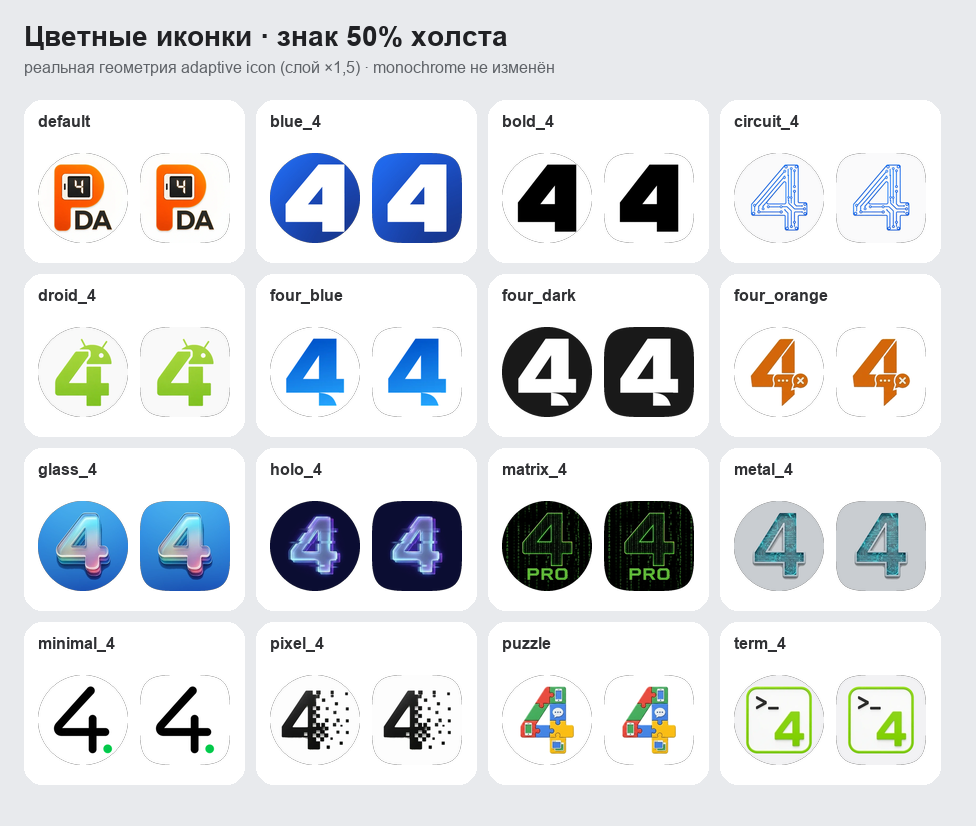
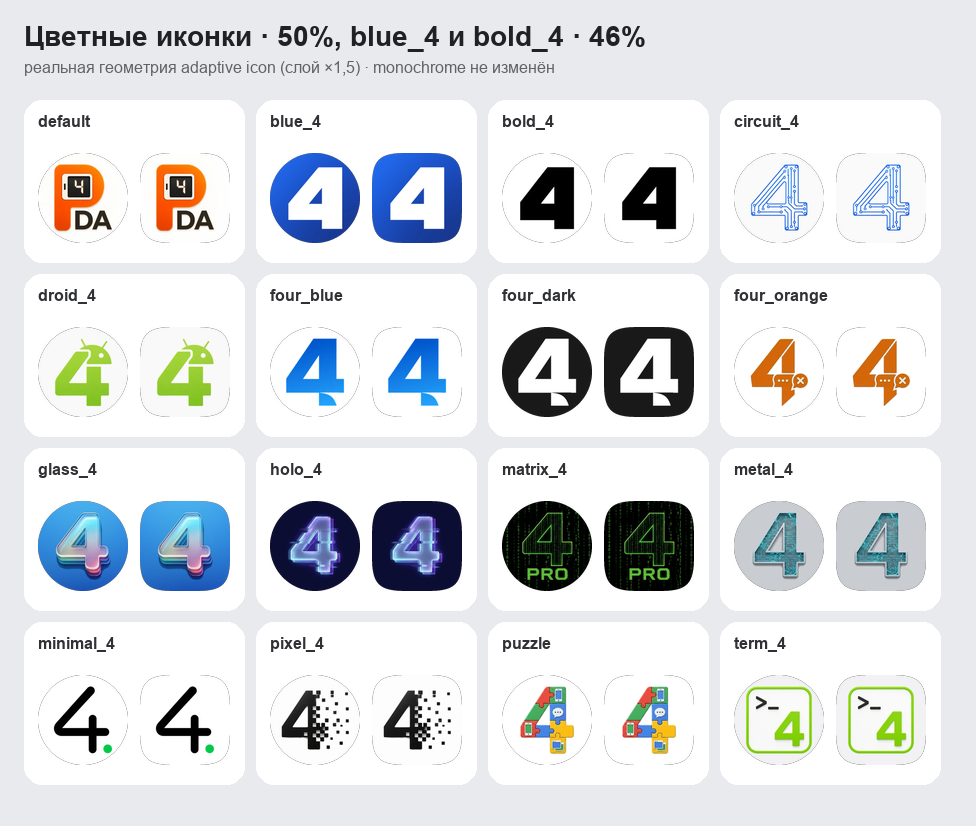
fix(appicon): уменьшить и центрировать две четвёрки

diff --git a/design/app-icon/resize_colored_foregrounds.py b/design/app-icon/resize_colored_foregrounds.py
@@ -3,6 +3,7 @@
 
 from __future__ import annotations
 
+import argparse
 import io
 import re
 from pathlib import Path
@@ -15,15 +16,23 @@ ROOT = Path(__file__).resolve().parents[2]
 RES = ROOT / "app/src/main/res"
 OUT = Path(__file__).resolve().parent / "all-icons-50-review.png"
 TARGET_SCALE = 0.50
+PER_ICON_SCALE = {
+    "blue_4": 0.46,
+    "bold_4": 0.46,
+}
 
 FONT_BOLD = "/System/Library/Fonts/Supplemental/Arial Bold.ttf"
 FONT_REGULAR = "/System/Library/Fonts/Supplemental/Arial.ttf"
 
 
-def resize_foreground(path: Path) -> None:
-    image = Image.open(path).convert("RGBA")
-    width, height = image.size
-    pixels = np.asarray(image)
+def icon_id(path: Path) -> str:
+    if path.name == "ic_launcher_foreground_art.webp":
+        return "default"
+    return path.name.removeprefix("ic_launcher_").removesuffix("_foreground_art.webp")
+
+
+def visible_bounds(image: Image.Image) -> tuple[int, int, int, int]:
+    pixels = np.asarray(image.convert("RGBA"))
     alpha = pixels[:, :, 3]
     if alpha.min() < 255:
         visible = alpha > 8
@@ -35,19 +44,46 @@ def resize_foreground(path: Path) -> None:
         visible = np.max(np.abs(pixels[:, :, :3].astype(np.int16) - background), axis=2) > 24
     ys, xs = np.where(visible)
     if not len(xs):
-        raise ValueError(f"{path}: foreground is empty")
-    visible_edge = max(int(xs.max() - xs.min() + 1), int(ys.max() - ys.min() + 1))
-    ratio = TARGET_SCALE * max(width, height) / visible_edge
+        raise ValueError("foreground is empty")
+    return int(xs.min()), int(ys.min()), int(xs.max()) + 1, int(ys.max()) + 1
+
+
+def centre_foreground(image: Image.Image, fill: tuple[int, ...]) -> Image.Image:
+    left, top, right, bottom = visible_bounds(image)
+    dx = round((image.width - left - right) / 2)
+    dy = round((image.height - top - bottom) / 2)
+    if not dx and not dy:
+        return image
+    result = Image.new("RGBA", image.size, fill)
+    result.alpha_composite(image.convert("RGBA"), (dx, dy))
+    return result
+
+
+def resize_foreground(path: Path) -> None:
+    image = Image.open(path).convert("RGBA")
+    width, height = image.size
+    alpha = np.asarray(image.getchannel("A"))
+    fill = image.getpixel((2, 2)) if alpha.min() == 255 else (0, 0, 0, 0)
+    image = centre_foreground(image, fill)
+    left, top, right, bottom = visible_bounds(image)
+    visible_edge = max(right - left, bottom - top)
+    target = PER_ICON_SCALE.get(icon_id(path), TARGET_SCALE)
+    ratio = target * max(width, height) / visible_edge
     scaled = image.resize(
         (round(width * ratio), round(height * ratio)),
         Image.Resampling.LANCZOS,
     )
-    fill = image.getpixel((2, 2)) if alpha.min() == 255 else (0, 0, 0, 0)
     result = Image.new("RGBA", image.size, fill)
     result.alpha_composite(
         scaled,
         ((width - scaled.width) // 2, (height - scaled.height) // 2),
     )
+    result = centre_foreground(result, fill)
+    left, top, right, bottom = visible_bounds(result)
+    margin_dx = abs(left - (width - right))
+    margin_dy = abs(top - (height - bottom))
+    if margin_dx > 1 or margin_dy > 1:
+        raise ValueError(f"{path}: asymmetric margins ΔX={margin_dx}, ΔY={margin_dy}")
 
     candidates: list[bytes] = []
     for options in ({"lossless": True, "method": 6}, {"quality": 95, "method": 6}):
@@ -55,7 +91,10 @@ def resize_foreground(path: Path) -> None:
         result.save(buffer, "WEBP", **options)
         candidates.append(buffer.getvalue())
     path.write_bytes(min(candidates, key=len))
-    print(f"  ✓ {path.relative_to(ROOT)}: {visible_edge / width:.1%} → {TARGET_SCALE:.0%}")
+    print(
+        f"  ✓ {path.relative_to(ROOT)}: {visible_edge / width:.1%} → {target:.0%}, "
+        f"поля ΔX={margin_dx}px ΔY={margin_dy}px"
+    )
 
 
 def adaptive_viewport(layer: Image.Image) -> Image.Image:
@@ -105,11 +144,7 @@ def background(icon_id: str, size: int, palette: dict[str, str]) -> Image.Image:
 
 def save_review(paths: list[Path]) -> None:
     palette = colors()
-    ids = [
-        p.name.removeprefix("ic_launcher_").removesuffix("_foreground_art.webp")
-        if p.name != "ic_launcher_foreground_art.webp" else "default"
-        for p in paths
-    ]
+    ids = [icon_id(p) for p in paths]
     entries = sorted(zip(ids, paths), key=lambda item: (item[0] != "default", item[0]))
 
     columns, tile_w, tile_h = 4, 232, 174
@@ -119,7 +154,8 @@ def save_review(paths: list[Path]) -> None:
     title = ImageFont.truetype(FONT_BOLD, 28)
     label = ImageFont.truetype(FONT_BOLD, 16)
     note = ImageFont.truetype(FONT_REGULAR, 16)
-    draw.text((24, 20), "Цветные иконки · знак 50% холста", font=title, fill="#202124")
+    draw.text((24, 20), "Цветные иконки · 50%, blue_4 и bold_4 · 46%",
+              font=title, fill="#202124")
     draw.text(
         (24, 58),
         "реальная геометрия adaptive icon (слой ×1,5) · monochrome не изменён",
@@ -127,14 +163,14 @@ def save_review(paths: list[Path]) -> None:
         fill="#5F6368",
     )
 
-    for index, (icon_id, path) in enumerate(entries):
+    for index, (variant_id, path) in enumerate(entries):
         row, col = divmod(index, columns)
         x, y = 24 + col * tile_w, 100 + row * tile_h
         draw.rounded_rectangle((x, y, x + tile_w - 12, y + tile_h - 12), 18, fill="#FFFFFF")
-        draw.text((x + 14, y + 12), icon_id, font=label, fill="#303134")
+        draw.text((x + 14, y + 12), variant_id, font=label, fill="#303134")
 
         fg = Image.open(path).convert("RGBA").resize((512, 512), Image.Resampling.LANCZOS)
-        bg = background(icon_id, 512, palette)
+        bg = background(variant_id, 512, palette)
         icon = adaptive_viewport(bg)
         icon.alpha_composite(adaptive_viewport(fg))
         for offset, kind in ((14, "circle"), (116, "squircle")):
@@ -149,12 +185,19 @@ def save_review(paths: list[Path]) -> None:
 
 
 def main() -> None:
+    parser = argparse.ArgumentParser()
+    parser.add_argument("--ids", nargs="*", help="обработать только указанные id")
+    args = parser.parse_args()
     light = sorted((RES / "drawable-nodpi").glob("ic_launcher*foreground_art.webp"))
     dark = sorted((RES / "drawable-night-nodpi").glob("ic_launcher*foreground_art.webp"))
-    for path in light + dark:
+    selected = light + dark
+    if args.ids:
+        wanted = set(args.ids)
+        selected = [path for path in selected if icon_id(path) in wanted]
+    for path in selected:
         resize_foreground(path)
     save_review(light)
-    print(f"Готово: {len(light) + len(dark)} цветных слоёв нормализованы до {TARGET_SCALE:.0%}")
+    print(f"Готово: обработано {len(selected)} цветных слоёв")
 
 
 if __name__ == "__main__":
